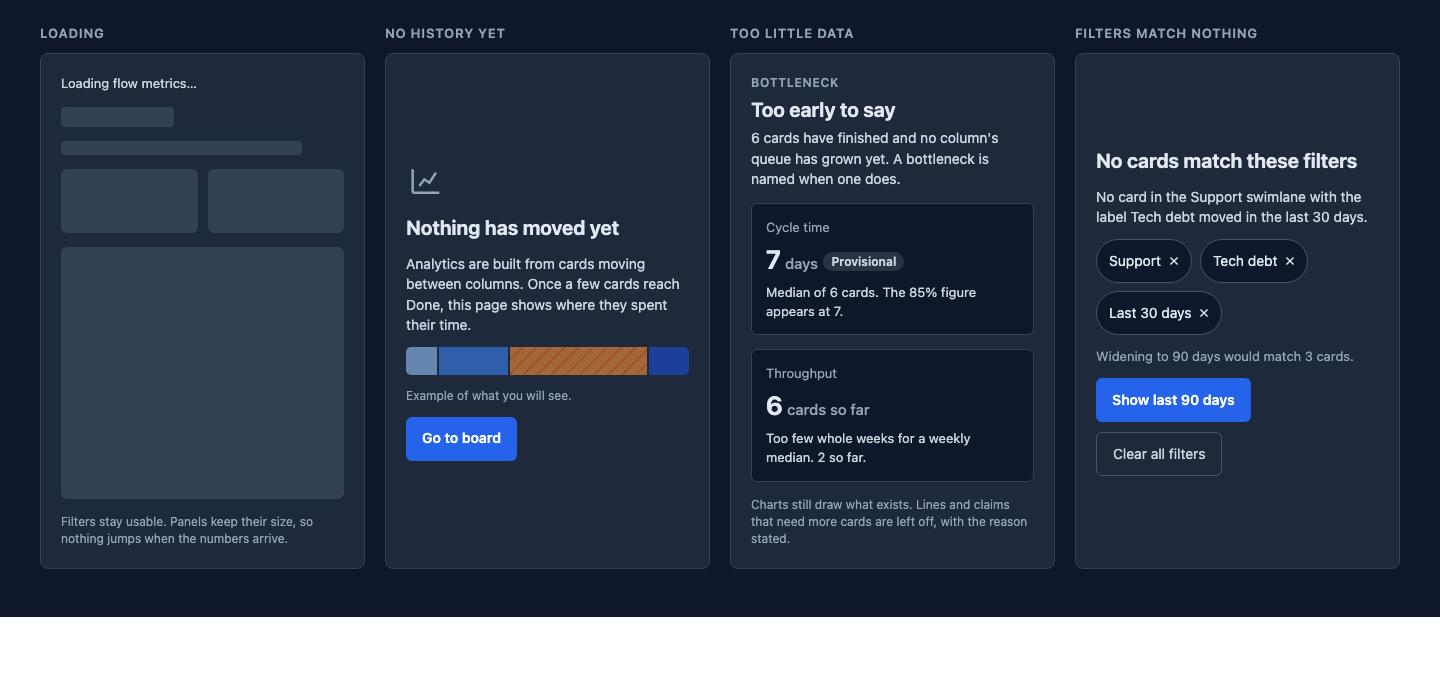
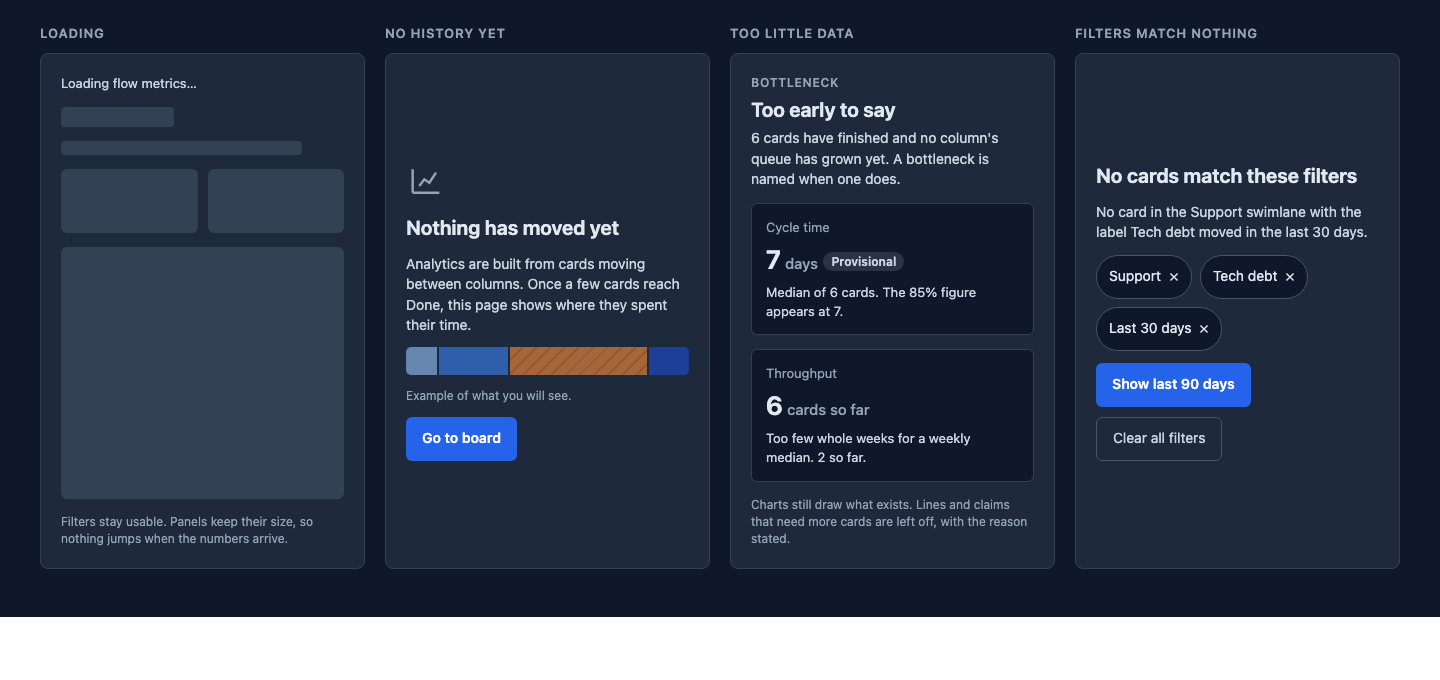
docs: settle the open decisions in the Analytics redesign spec (#2257, #458)
Decided by the project owner on 2026-11-14:

- The per-swimlane trend inside the selected period is OSS; record it in
  the open-core boundary doc. Comparing periods stays Enterprise.
- The dwell heatmap is demoted to the Table view of "Where the time
  goes", not removed, so no shipped analytics feature goes away (#1750).
  Its modes are renamed Current and In period.
- Slower and faster need a 20% difference and at least 10 finished cards.
- Needs attention is built as a service that #1358 can reuse.
- The no-match state offers to widen the period without a count.

Changed region(s): [[0.75, 0.2162, 0.9688, 0.6794], [0.9062, 0.4941, 0.9375, 0.5559]]

diff --git a/docs/development/analytics-redesign/artboards/States.dc.html b/docs/development/analytics-redesign/artboards/States.dc.html
@@ -79,7 +79,6 @@ body{margin:0}
 <button type="button" style="min-height: 44px; padding: 0 12px; border-radius: 999px; border: 1px solid #475569; background: #0f172a; color: #e2e8f0; font: inherit; cursor: pointer; display: flex; align-items: center; gap: 8px">Tech debt <svg aria-hidden="true" width="10" height="10" viewBox="0 0 14 14" fill="none" stroke="currentColor" stroke-width="2"><path d="M2 2l10 10M12 2L2 12"/></svg></button>
 <button type="button" style="min-height: 44px; padding: 0 12px; border-radius: 999px; border: 1px solid #475569; background: #0f172a; color: #e2e8f0; font: inherit; cursor: pointer; display: flex; align-items: center; gap: 8px">Last 30 days <svg aria-hidden="true" width="10" height="10" viewBox="0 0 14 14" fill="none" stroke="currentColor" stroke-width="2"><path d="M2 2l10 10M12 2L2 12"/></svg></button>
 </div>
-<p style="margin: 0; color: #94a3b8; font-size: 13px">Widening to 90 days would match 3 cards.</p>
 <div style="display: flex; flex-wrap: wrap; gap: 10px">
 <button type="button" style="min-height: 44px; padding: 0 16px; border-radius: 6px; border: 0; background: #2563eb; color: #ffffff; font: inherit; font-weight: 600; cursor: pointer">Show last 90 days</button>
 <button type="button" style="min-height: 44px; padding: 0 16px; border-radius: 6px; border: 1px solid #475569; background: transparent; color: #cbd5e1; font: inherit; cursor: pointer">Clear all filters</button>

diff --git a/docs/development/analytics-redesign/artboards/Lanes.dc.html b/docs/development/analytics-redesign/artboards/Lanes.dc.html
@@ -101,13 +101,13 @@ class Component extends DCLogic {
       { name: 'Design', p50: null, p85: null, blocked: 0, wip: 1, done: 4, spark: [], trend: 'Not enough cards' },
     ];
     const lanes = DATA.map((d) => {
-      const slow = d.p50 !== null && d.p50 > 11 * 1.15;
+      const slow = d.p50 !== null && d.done >= 10 && d.p50 > 11 * 1.2;
       const slower = d.trend.indexOf('Slower') === 0;
       const faster = d.trend.indexOf('Faster') === 0;
       return {
         name: d.name,
-        status: d.p50 === null ? 'Too few finished cards' : slow ? 'Slower than the board' : d.p50 < 11 * 0.85 ? 'Faster than the board' : 'In line with the board',
-        statusFg: slow ? 'var(--warn-text)' : d.p50 !== null && d.p50 < 11 * 0.85 ? 'var(--ok-text)' : 'var(--fg3)',
+        status: d.p50 === null ? 'Too few finished cards' : slow ? 'Slower than the board' : d.done >= 10 && d.p50 < 11 * 0.8 ? 'Faster than the board' : 'In line with the board',
+        statusFg: slow ? 'var(--warn-text)' : d.p50 !== null && d.done >= 10 && d.p50 < 11 * 0.8 ? 'var(--ok-text)' : 'var(--fg3)',
         barBg: slow ? 'var(--warn)' : 'var(--bar)',
         p50w: d.p50 === null ? 0 : (d.p50 / 30) * 100,
         tailw: d.p50 === null ? 0 : ((d.p85 - d.p50) / 30) * 100,

diff --git a/docs/development/analytics-redesign.md b/docs/development/analytics-redesign.md
@@ -65,7 +65,7 @@ Chart rows are two equal columns from `lg` and one column below, and a chart fra
 - **Period options:** last 30, 90, 180 and 365 days. Default 90.
 - **Break down by:** a segmented group with None, Swimlane, Label, and one entry per eligible card custom field (#458). The active segment carries `ActiveMark`.
 - **Export CSV**, admin and site admin only, as today.
-- The heatmap's own period pills and Age/Throughput toggle are removed.
+- The heatmap's own period pills are removed. Its mode toggle moves into the table view of "Where the time goes".
 
 ## Bottleneck panel
 
@@ -124,7 +124,9 @@ Under the flow row, in the same panel.
 - Each bar is segmented by in-progress column; a segment's width is the median days in that column and it is labeled with that number.
 - The bar's total length is proportional to the group's total, so the longest bar is the slowest group. The total is printed at the end.
 - The bottleneck column's segment is hatched.
-- This replaces the dwell heatmap on this tab. The board overlay keeps the per-cell view.
+- This replaces the dwell heatmap as the lead visual. The heatmap is not deleted: it becomes this panel's **Table** view, behind the same Chart | Table switch the charts have. The screenshots do not draw that switch.
+- The table is today's heatmap table: swimlane rows, column cells with the three-level cue, the velocity column, and the admin-only CSV export. Its period follows the filter bar.
+- Its two modes stay but are renamed, because "Throughput" now means cards finished per week: "Age" becomes **Current** and "Throughput" becomes **In period**.
 
 ## Charts
 
@@ -145,6 +147,7 @@ One list that replaces the stalled-cards table.
 
 - **Membership:** a card is listed once if it is blocked now, has not moved for longer than the stalled threshold, or is older than the 85th percentile.
 - **Order:** oldest first.
+- Membership and order come from one backend service, so the attention queue (#1358) can reuse it.
 - **Row:** card title, then column, swimlane and the reason; age in days on the right. Selecting a row opens the card.
 - **Age color:** `text-danger` when the card is past the 85th percentile, `text-warning` otherwise. Every card on this list is already flagged, so there is no neutral tier.
 - Shows five rows. "All N cards" expands the list in place, 25 per page, like the stalled table today.
@@ -199,8 +202,8 @@ A breakdown colors marks by group, using the five categorical chart colors.
 | Time blocked | A bar and "N% of elapsed time" |
 | Counts | Cards in progress and cards finished |
 
-- **Status** compares the swimlane's median with the board median: "Slower than the board" when more than 15% above, "Faster than the board" when more than 15% below, otherwise "In line with the board". The 15% is a proposed threshold for `architect` to confirm. The artboard source hard-codes 13 and 10 days for its sample data; the 15% rule governs.
-- **Trend** compares the first and last rolling medians in the period with the same 15% threshold: "Slower, A to B days", "Faster, A to B days" or "Steady".
+- **Status** compares the swimlane's median with the board median: "Slower than the board" when more than 20% above, "Faster than the board" when more than 20% below, otherwise "In line with the board". A swimlane needs at least 10 finished cards to get a slower or faster status; with 5 to 9 it shows its median and no status line. Both numbers are constants, not settings.
+- **Trend** compares the first and last rolling medians in the period with the same 20% threshold: "Slower, A to B days", "Faster, A to B days" or "Steady".
 - **Bar scale** is shared by every row and runs from 0 to the largest 85th percentile on the page, rounded up to a round number. The board-median tick sits on that scale.
 - A swimlane with fewer than five finished cards shows no median, no bar and no trend. Its cycle-time text says how many cards have finished and its trend text is "Not enough cards".
 - A swimlane with five or six finished cards shows the median but no 85th-percentile line.
@@ -218,7 +221,7 @@ A breakdown colors marks by group, using the five categorical chart colors.
 | Loading | Skeleton blocks the size of the final panels. Filters stay usable. |
 | No history yet | Heading, one sentence on what the page will show, a dimmed example bar labeled as an example, and "Go to board". |
 | Too little data | The page renders. The bottleneck panel says "Too early to say" with the reason. Tiles mark values "Provisional" and say what is withheld and when it will appear. |
-| Filters match nothing | Heading, a sentence naming the active filters, a removable chip per filter, a suggestion when widening the period would match cards, and "Clear all filters". |
+| Filters match nothing | Heading, a sentence naming the active filters, a removable chip per filter, a "Show last 90 days" button when the period is shorter than that, and "Clear all filters". |
 
 ## Design tokens
 
@@ -301,13 +304,17 @@ All additions are additive; no existing field, endpoint or parameter changes. Th
 
 Percentiles and medians come from the server. The browser never computes one.
 
-## What is removed from the tab
+## What changes for existing features
 
-- The dwell heatmap and its Age/Throughput toggle.
-- The stalled-cards table.
-- The blocked-time table per column.
+| Today | After |
+|---|---|
+| Dwell heatmap as the first section | Table view of "Where the time goes"; same data, modes renamed, period from the filter bar |
+| Heatmap CSV export | Unchanged, admin and site admin only |
+| Stalled-cards table | Folded into "Needs attention" |
+| Blocked-time table per column | Replaced by "Why cards get blocked"; the per-column figures stay in the cumulative flow and column drawer |
+| Heatmap period pills (7, 30, 90 days) | Removed; the filter bar's period applies |
 
-These are UI removals only. The analytics endpoint keeps every field it returns today. Run `sunset-check` on the heatmap before removing it.
+No shipped analytics feature is removed, which keeps the page inside the open-core ruling (#1750). The analytics endpoint keeps every field it returns today.
 
 ## Not part of this design
 
@@ -319,12 +326,15 @@ These are UI removals only. The analytics endpoint keeps every field it returns 
 - `docs/api/`: every added field and parameter.
 - `frontend/CLAUDE.md` § Charts: any new rule `ux-review` surfaces. It already lists this tab's three color exceptions and points here.
 
-## Open decisions
+## Decisions
 
-- **Trend and the open-core boundary.** The Swimlanes trend compares rolling medians inside the selected period. Confirm this is not "cross-period comparison", which is enterprise.
-- **Heatmap removal.** Pending `sunset-check`.
-- **Needs attention and the attention queue.** If #1358 ships first, this list should use its ranking.
-- **"Widening would match N cards".** Needs a second, cheap count query; drop the hint if it is not worth one.
+Settled by the project owner on 2026-11-14.
+
+- **The Swimlanes trend is OSS.** It is a trend inside the selected period, like the throughput run chart. It never shows or implies an earlier period; comparing periods stays Enterprise. `docs/architecture/open-core-boundary.md` records this.
+- **The heatmap is demoted, not removed.** See [What changes for existing features](#what-changes-for-existing-features).
+- **Slower and faster need a 20% difference and at least 10 finished cards.**
+- **Needs attention does not wait for #1358.** #2257 builds the rule as a service; #1358 reuses it.
+- **No "would match N cards" count.** The no-match state offers to widen the period without promising a number.
 
 ## Review checklist
 

diff --git a/docs/architecture/open-core-boundary.md b/docs/architecture/open-core-boundary.md
@@ -169,7 +169,7 @@ Structured delivery report export (CSV/PDF, formatted for client or QBR presenta
 
 **Decision (#1750, 2026-11-02).** All four flow charts planned in #448 are OSS: cycle time, throughput (including the weekly run chart), the cumulative flow diagram (CFD) and WIP age, along with the CFD bottleneck highlight. The analytics OSS already ships stays OSS: the dwell-time heatmap with outlier and bottleneck coloring, Age and Throughput modes, stalled-card detection, the per-swimlane velocity column, the 7, 30 and 90-day windows, and the admin heatmap CSV export. Basic per-swimlane analytics (cards in flight, average cycle time, cards moved to Done in the last 30 days) are OSS too.
 
-Enterprise keeps three things: cross-period comparison, scheduled analytics reports, and panels registered through `ANALYTICS_EXTENSIONS`.
+Enterprise keeps three things: cross-period comparison, scheduled analytics reports, and panels registered through `ANALYTICS_EXTENSIONS`. A trend drawn inside the selected period is not cross-period comparison and is OSS: the throughput run chart, and the per-swimlane rolling median in #458. Comparing the selected period with an earlier one is Enterprise.
 
 **Why.** Seeing where work piles up passes the small-team test, and OSS already ships bottleneck detection. The earlier split would have left most of #448 disputed: "velocity trends over time" covers the throughput run chart, and enterprise #12 also claims cycle time, lead time and throughput.
 
